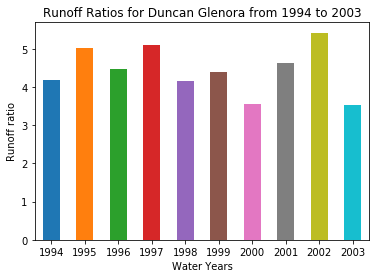
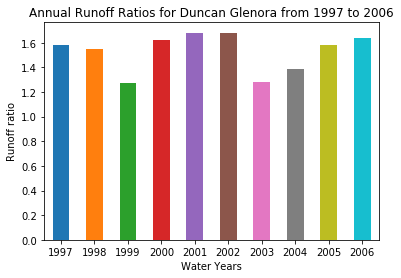
Submission

diff --git a/Assignment2/Assignment2.py b/Assignment2/Assignment2.py
@@ -10,30 +10,46 @@ import pandas as pd
 import numpy as np
 import matplotlib.pyplot as plt
 
-"""Sort the dataframes first into useable matrices!!"""
+"""Data sorting"""
+qinf=pd.read_csv("Cowichan_Duncan_dailyQ.csv")
 
-pin=pd.read_csv("/home/josmarti/Code/CIVE-580/Assignment1/1022571_Duncan_Glenora.csv")
+pin1=pd.read_csv("/home/josmarti/Code/CIVE-580/Assignment1/3B23P_Jump_Creek.csv")
+pin2=pd.read_csv("/home/josmarti/Code/CIVE-580/Assignment1/1022571_Duncan_Glenora.csv")
 qin=pd.read_csv("Cowichan_Duncan_monthlyQ.csv")
 psorted=pd.DataFrame(columns = ["water year", "month", "precip_mm", "tmin_C", "tmax_C"])
+qdailysorted=pd.DataFrame(columns = ["water year", "month", "Q_mms"])
 qsorted=pd.DataFrame(columns = ["water year", "month", "Q_mms"])
 
-for data in range(len(qin["Unnamed: 0"])):
-    qsorted.loc[data,"month"]=int(qin.loc[data,"Unnamed: 0"][5:7]) #making months useable integers
-    if int(qin.loc[data,"Unnamed: 0"][5:7])<10: #to organize by water year 1 Oct - 30 Sep
-        qsorted.loc[data,"water year"]=int(qin.loc[data,"Unnamed: 0"][0:4])-1 #making years useable integers
+for data in range(len(qinf["Unnamed: 0"])):
+    qdailysorted.loc[data,"month"]=int(qinf.loc[data,"Unnamed: 0"][5:7]) #making months useable integers
+    if int(qinf.loc[data,"Unnamed: 0"][5:7])<10: #to organize by water year 1 Oct - 30 Sep
+        qdailysorted.loc[data,"water year"]=int(qinf.loc[data,"Unnamed: 0"][0:4])-1 #making years useable integers
     else:
-        qsorted.loc[data,"water year"]=int(qin.loc[data,"Unnamed: 0"][0:4]) #making years useable integers
-    qsorted.loc[data,"Q_mms"]=qin.loc[data,"Q_cms"]*10
+        qdailysorted.loc[data,"water year"]=int(qinf.loc[data,"Unnamed: 0"][0:4]) #making years useable integers
+    qdailysorted.loc[data,"Q_mms"]=qinf.loc[data,"Q_cms"]*10
 
-for data in range(len(pin["Unnamed: 0"])):
-    psorted.loc[data,"month"]=pin.loc[data,"month"] #no int() needed as the values in this dataframe are already integers
-    if pin.loc[data,"month"]<10: #to organize by water year 1 Oct - 30 Sep
-        psorted.loc[data,"water year"]=pin.loc[data,"year"]-1
+j=0 #not pretty, but the best case in a pinch...
+for year in range(np.amin(qdailysorted["water year"]),np.amax(qdailysorted["water year"])):
+    for month in range (np.amin(qdailysorted["month"]),(np.amax(qdailysorted["month"])+1)):
+        temp=qdailysorted["Q_mms"].where((qdailysorted["water year"]==year) & (qdailysorted["month"]==month))
+        qsorted.loc[j,"water year"]=year
+        qsorted.loc[j,"month"]=month
+        qsorted.loc[j,"Q_mms"]=temp.mean()
+        j=j+1
+
+
+for data in range(len(pin1["Unnamed: 0"])):
+    psorted.loc[data,"month"]=pin1.loc[data,"month"] #no int() needed as the values in this dataframe are already integers
+    if pin1.loc[data,"month"]<10: #to organize by water year 1 Oct - 30 Sep
+        psorted.loc[data,"water year"]=pin1.loc[data,"year"]-1
     else:
-        psorted.loc[data,"water year"]=pin.loc[data,"year"]
-    psorted.loc[data,"precip_mm"]=pin.loc[data,"precip_mm"]
-    psorted.loc[data,"tmin_C"]=pin.loc[data,"tmin_C"]
-    psorted.loc[data,"tmax_C"]=pin.loc[data,"tmax_C"]
+        psorted.loc[data,"water year"]=pin1.loc[data,"year"]
+    grabp2=pin2["precip_mm"].where((pin2["year"]==pin1.loc[data,"year"])&(pin2["month"]==pin1.loc[data,"month"]))
+    psorted.loc[data,"precip_mm"]=pin1.loc[data,"precip_mm"]+grabp2.mean() #both stations contribute to watershed
+    psorted.loc[data,"tmin_C"]=pin1.loc[data,"tmin_C"]
+    psorted.loc[data,"tmax_C"]=pin1.loc[data,"tmax_C"]
+    
+
 
 
 df2 = pd.DataFrame(np.array([[1, 2, 3], [4, 5, 6], [7, 8, 9]]),
@@ -48,12 +64,10 @@ for both streamflow and precipitation, calculate 10 runoff ratios).
 Plot the time series of the runoff ratios and discuss how they vary 
 interannually (Hint: use some statistics to back up your answer!)"""
 
-timeframe1=range(1994,2004) #due to zero indexing, the end year is not included
+timeframe1=range(1997,2007) #due to zero indexing, the end year is not included
 arratio=pd.Series(index=timeframe1)
-annualp=psorted["precip_mm"].where(psorted["water year"]==1994)
 
 #print(qsorted.where["water year"==1994, "Q_cms"])
-
 
 
 for year in timeframe1:
@@ -61,23 +75,23 @@ for year in timeframe1:
     annualq=qsorted["Q_mms"].where(qsorted["water year"]==year)
     arratio[year]=annualq.mean()/annualp.mean()
 
-print(arratio)
-
-"""arratio.plot(kind='bar',rot=0)
+#print(arratio)
+arratio.plot(kind='bar',rot=0)
 plt.xlabel("Water Years")	
 plt.ylabel("Runoff ratio")
-plt.title("Runoff Ratios for Duncan Glenora from %s " % str(np.amin(timeframe1)) + "to %s" % str(np.amax(timeframe1)))
+plt.title("Annual Runoff Ratios for Duncan Glenora from %s " % str(np.amin(timeframe1)) + "to %s" % str(np.amax(timeframe1)))
 plt.show()
 #title=() )
-"""
- 
+
+print("Annual Variability Coefficient is: %0.3f" % (arratio.std()/arratio.mean()))
+
 """Question 2: Calculate monthly runoff ratios for two years of data. How do 
 they vary intraannually (within a year) and interannually (across years, for 
 example how do the two January runoff ratios compare)?"""
 
 months=["Jan", "Feb", "Mar", "Apr", "May", "Jun", "Jul", "Aug", "Sep", "Oct", "Nov", "Dec"]
 
-timeframe2=range(2006, 2008) #due to zero indexing, the end year is not included
+timeframe2=range(2005, 2007) #due to zero indexing, the end year is not included
 rryears=range(len(timeframe2))+np.amin(timeframe2)
 for i in range(len(rryears)): #convert time frame years into str for DataFrame columns
     rryears[i]=str(rryears[i])
@@ -87,15 +101,24 @@ for m in months:
         monthlyp=psorted["precip_mm"].where((psorted["water year"]==int(year)) & (psorted["month"]==(months.index(m)+1)))
         monthlyq=qsorted["Q_mms"].where((qsorted["water year"]==int(year)) & (qsorted["month"]==(months.index(m)+1)))
         mrratio.loc[m, year]=monthlyq.mean()/monthlyp.mean() #there must be a better way...
-print(mrratio)
+#print(mrratio)
 
-"""mrratio.plot(kind='bar',rot=0)
+mrratio.plot(kind='bar',rot=0)
 plt.xlabel("Months")	
 plt.ylabel("Runoff ratio")
-plt.title("Runoff Ratios for Duncan Glenora from %s " % str(np.amin(timeframe2)) + "to %s" % str(np.amax(timeframe2)))
-plt.show()"""
-                        
-                        
+plt.title("Monthly Runoff Ratios for Duncan Glenora from %s " % str(np.amin(timeframe2)) + "to %s" % str(np.amax(timeframe2)))
+plt.show()
+
+for year in rryears:
+    var=mrratio[year]
+    print("Annual Variability Coefficient for %i" % year + " is %0.3f" % (var.std()/var.mean()))
+
+
+for month in months:
+    var=mrratio.loc[month]
+    print("Monthly Variability for %s" % month + " is: %0.3f" % (var.std()/var.mean()))                        
+   
+               
 """Question 3: Calculate and plot a monthly water budget for two years of data.
 Discuss how the seasonality of the water budget varies across variables, the 
 intra- and interannual variability, and the sources of uncertainty in the water
@@ -112,7 +135,7 @@ for data in range(len(ETin["Date"])):
         ETsorted.loc[data,"water year"]=int(ETin.loc[data,"Date"][0:4]) #making years useable integers
     ETsorted.loc[data,"ET_mm"]=ETin.loc[data,"ET"]
 
-timeframe3=range(2006, 2008) #due to zero indexing, the end year is not included
+timeframe3=range(2005, 2007) #due to zero indexing, the end year is not included
 rryears2=range(len(timeframe3))+np.amin(timeframe3)
 for i in range(len(rryears2)): #convert time frame years into str for DataFrame columns
     rryears2[i]=str(rryears2[i])
@@ -122,6 +145,20 @@ for m in months:
         budgetp=psorted["precip_mm"].where((psorted["water year"]==int(year)) & (psorted["month"]==(months.index(m)+1)))
         budgetq=qsorted["Q_mms"].where((qsorted["water year"]==int(year)) & (qsorted["month"]==(months.index(m)+1)))
 	budgetET=ETsorted["ET_mm"].where((ETsorted["water year"]==int(year)) & (ETsorted["month"]==(months.index(m)+1)))
-	print(budgetET.sum())
+	#print(budgetET.sum())
 	budget.loc[m, year]=budgetp.mean()-budgetq.mean()-budgetET.sum()
-print(budget)
+
+budget.plot(kind='bar',rot=0)
+plt.xlabel("Months")	
+plt.ylabel("Water Budget in mm (dS/dt)")
+plt.title("Montly Water Budget for Duncan Glenora from %s " % str(np.amin(timeframe3)) + "to %s" % str(np.amax(timeframe3)))
+plt.show()
+
+for year in rryears2:
+    var=budget[year]
+    print("Annual Variability Coefficient for %i" % year + " is %0.3f" % (var.std()/var.mean()))
+
+
+for month in months:
+    var=budget.loc[month]
+    print("Monthly Variability for %s" % month + " is: %0.3f" % (var.std()/var.mean()))    
